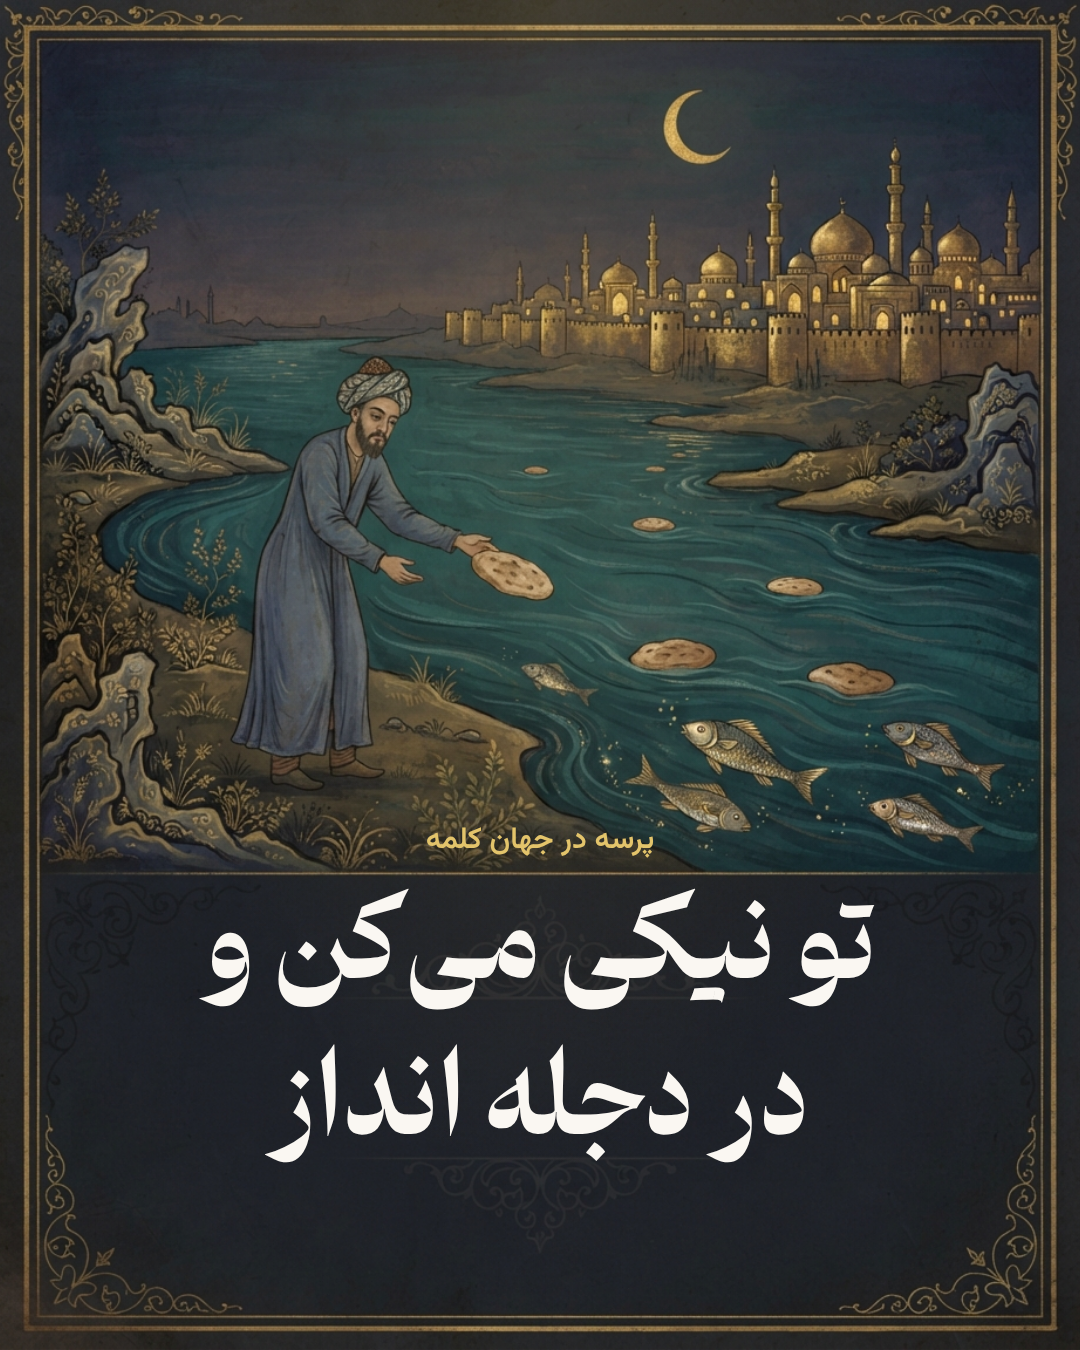
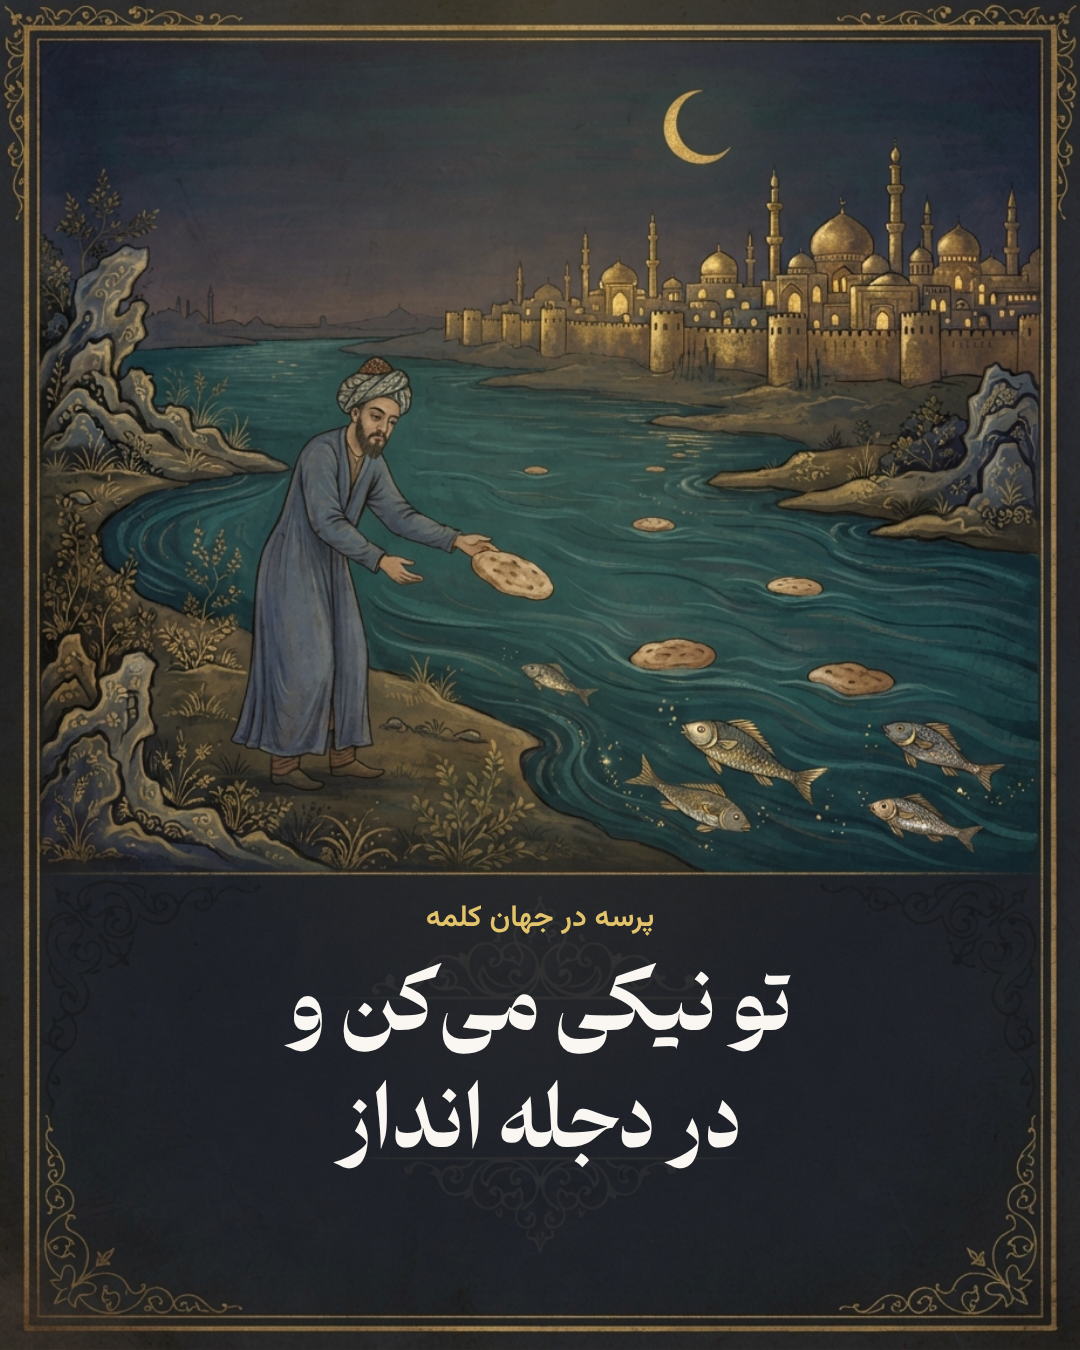
post21: smaller cover title
Claude-Session: https://claude.ai/code/session_01KbXFhZ5gVHvAJQxmARukFF

Changed region(s): [[0.1833, 0.5911, 0.825, 0.8711]]

diff --git a/tools/dejleh/build.py b/tools/dejleh/build.py
@@ -160,9 +160,9 @@ def html(i,s,plat):
     if k=='cover' and s.get('art'):
         U='../'+s['art']
         if not wide:
-            return (f'<div class="slide cover" style="background:#14100a url({U}) center top/cover no-repeat"><div class="ct" style="bottom:64px;gap:10px"><div class="kk">{s["kicker"]}</div><h1 style="line-height:1.5">{s["title"]}</h1></div></div>')
+            return (f'<div class="slide cover" style="background:#14100a url({U}) center top/cover no-repeat"><div class="ct" style="bottom:64px;gap:10px"><div class="kk">{s["kicker"]}</div><h1 style="line-height:1.5;font-size:78px">{s["title"]}</h1></div></div>')
         iw=int(H*928/1152)
-        return (f'<div class="slide cover" style="background:#14100a;flex-direction:row;align-items:stretch"><div style="flex:0 0 {iw}px;background:url({U}) center/cover no-repeat"></div><div style="flex:1;display:flex;flex-direction:column;align-items:center;justify-content:center;gap:22px;text-align:center;padding:0 40px"><div class="kk">{s["kicker"]}</div><h1 style="line-height:1.55">{s["title"]}</h1></div></div>')
+        return (f'<div class="slide cover" style="background:#14100a;flex-direction:row;align-items:stretch"><div style="flex:0 0 {iw}px;background:url({U}) center/cover no-repeat"></div><div style="flex:1;display:flex;flex-direction:column;align-items:center;justify-content:center;gap:22px;text-align:center;padding:0 40px"><div class="kk">{s["kicker"]}</div><h1 style="line-height:1.55;font-size:62px">{s["title"]}</h1></div></div>')
     if k=='cover':
         bg=(f'background-image:url(../{s["img"]});background-position:center 22%' if s.get('img') else 'background:radial-gradient(ellipse at 50% 35%,#4a3a1c,#14100a 70%)')
         orn='' if s.get('img') else '<div class="frame" style="border-color:#c9a84c"></div><div class="dia a"></div><div class="dia b"></div><div class="dia c"></div><div class="dia d"></div>'
